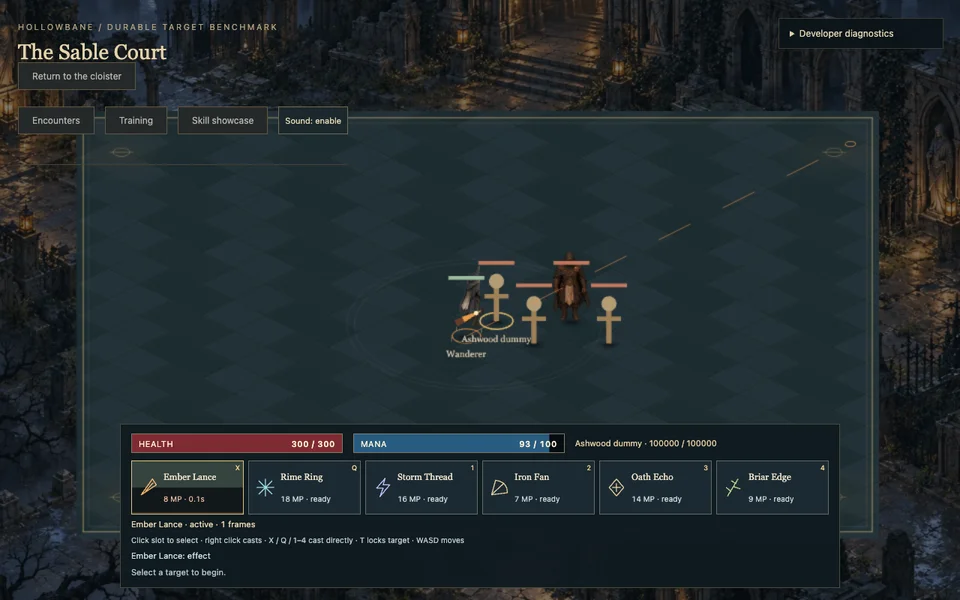
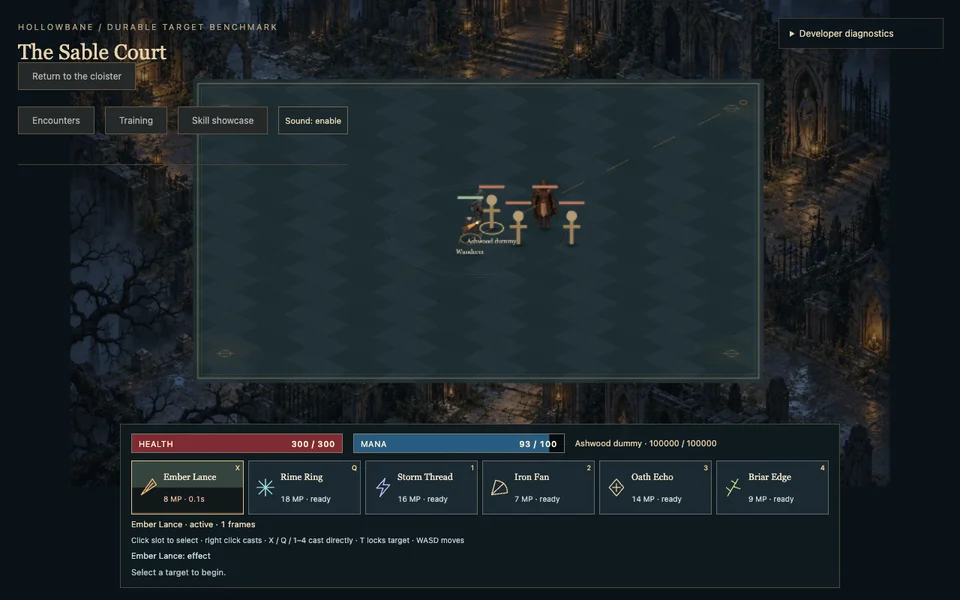
fix(DBL-308): keep playable court clear of the ability HUD

diff --git a/tests/e2e/polish.spec.ts b/tests/e2e/polish.spec.ts
@@ -294,3 +294,38 @@ test("polish world and HUD retain their visual reference", async ({ page }) => {
   });
   await page.screenshot({ path: ".local/polish-review.png" });
 });
+
+test("lower walkable ground remains visible and clickable above HUD after resize", async ({
+  page,
+}) => {
+  await ready(page);
+  const hud = await page.locator(".skill-bar").boundingBox();
+  const p = await point(page, 1250, 790);
+  expect(p.y).toBeLessThan(hud!.y - 16);
+  await page.mouse.click(p.x, p.y);
+  await expect
+    .poll(
+      () =>
+        page.evaluate(() =>
+          Math.abs(window.hollowbaneCombat!.actors[0]!.x - 1250),
+        ),
+      { timeout: 8000 },
+    )
+    .toBeLessThan(3);
+  await expect
+    .poll(() =>
+      page.evaluate(() =>
+        Math.abs(window.hollowbaneCombat!.actors[0]!.y - 790),
+      ),
+    )
+    .toBeLessThan(3);
+  const width = await page.evaluate(() => window.hollowbaneCombat!.view.width);
+  await page.setViewportSize({ width: 1024, height: 768 });
+  await expect
+    .poll(() => page.evaluate(() => window.hollowbaneCombat!.view.width))
+    .not.toBe(width);
+  const q = await point(page, 1250, 790),
+    newHud = await page.locator(".skill-bar").boundingBox();
+  expect(q.y).toBeLessThan(newHud!.y - 16);
+  expect(q.x).toBeLessThan(1024);
+});

diff --git a/src/world/arena-view.test.ts b/src/world/arena-view.test.ts
@@ -1,0 +1,30 @@
+import { expect, it } from "vitest";
+import { arenaView } from "./arena-view";
+it.each([
+  [1280, 800, 566],
+  [1920, 1080, 846],
+  [1024, 768, 528],
+])("walkable ground stays above HUD at %i x %i", (width, height, hud) => {
+  const v = arenaView({ x: width, y: height }, hud);
+  for (const p of [
+    { x: 230, y: 260 },
+    { x: 1300, y: 260 },
+    { x: 230, y: 830 },
+    { x: 1300, y: 830 },
+  ]) {
+    const x = width / 2 + (p.x - v.center.x) * v.scale,
+      y = height / 2 + (p.y - v.center.y) * v.scale;
+    expect(x).toBeGreaterThan(0);
+    expect(x).toBeLessThan(width);
+    expect(y).toBeGreaterThan(60);
+    expect(y + 16).toBeLessThan(hud);
+  }
+});
+it("legacy framing remains identical and invalid inputs are rejected", () => {
+  expect(arenaView({ x: 1280, y: 800 }, null)).toEqual({
+    scale: 1,
+    center: { x: 768, y: 512 },
+    playBottom: 800,
+  });
+  expect(() => arenaView({ x: 0, y: 800 }, 500)).toThrow();
+});

diff --git a/src/rendering/combat-arena.ts b/src/rendering/combat-arena.ts
@@ -1,3 +1,4 @@
+import { arenaView } from "../world/arena-view";
 import { createPolishGround } from "./polish-ground";
 import { CombatAudio } from "./combat-audio";
 import { PolishHUD } from "./polish-hud";
@@ -220,10 +221,14 @@ export function startCombatArena(monsters = false): Phaser.Game {
         this.balancedDetail,
       );
       this.scale.resize(size.x, size.y);
-      this.cameras.main.setZoom(
-        Math.min(innerWidth / 1280, innerHeight / 800) * size.ratio,
+      const framing = arenaView(
+        { x: innerWidth, y: innerHeight },
+        polish
+          ? root.querySelector(".skill-bar")!.getBoundingClientRect().top
+          : null,
       );
-      this.cameras.main.centerOn(768, 512);
+      this.cameras.main.setZoom(framing.scale * size.ratio);
+      this.cameras.main.centerOn(framing.center.x, framing.center.y);
     };
     private renderAt = 0;
     private inputAt: number | null = null;

diff --git a/src/world/arena-view.ts b/src/world/arena-view.ts
@@ -1,0 +1,22 @@
+import type { Point } from "./isometric";
+/** Presentation-only camera framing, preserving a full-canvas inverse projection. */
+export function arenaView(
+  viewport: Point,
+  hudTop: number | null,
+): { scale: number; center: Point; playBottom: number } {
+  if (
+    ![viewport.x, viewport.y].every((v) => Number.isFinite(v) && v > 0) ||
+    (hudTop !== null && !Number.isFinite(hudTop))
+  )
+    throw Error("Invalid arena viewport");
+  const playBottom =
+    hudTop === null
+      ? viewport.y
+      : Math.max(120, Math.min(viewport.y, hudTop - 16));
+  const scale = Math.min(viewport.x / 1280, playBottom / 800);
+  return {
+    scale,
+    center: { x: 768, y: 512 + (viewport.y - playBottom) / (2 * scale) },
+    playBottom,
+  };
+}

diff --git a/docs/polish/milestone.md b/docs/polish/milestone.md
@@ -47,3 +47,9 @@ Six intentional actual-simulation review frames, including Ember in flight, are 
 Benchmark compares three interleaved repeats of pre-299 HUD containment versus full polish (5/10/20/30 enemies), same 1920x1080 balanced setting, durable targets, immortal player, muted audio, live AI, virtual fire pulses. Full polish keeps developer diagnostics open for comparison. Six-second windows after two-second warmup; CPU and RAF callback pacing separate, no native GPU/display scanout claim. Additional two-repeat cosmetic sweeps at 30 enemies isolate skill FX, baked floor detail and backdrop, without changing simulation. Separate two-repeat cloister full/balanced mist A/B uses optional `noMist=1`; normal visuals unchanged. Scripts preserve partial data; no performance gain is assumed before results.
 
 Full check remains 172 tests. Normal cloister visual passes after the measurement-only mist flag; core/full polish regression remains the verified 67 Chromium and 28 Firefox-WebKit milestone.
+
+## DBL-308 readability correction
+
+Review found that the larger fixed HUD covered lower walkable ground. A pure arena-view helper now frames only the polish camera above the actual HUD top, preserving a full-canvas viewport/inverse pointer mapping. Legacy framing is identical. Four viewport tests cover all ground corners and legacy behavior; full check 176. All nine polish browser scenarios pass, including clicking/moving to ground (1250,790) and resizing to 1024x768 while keeping the foot point clear of the HUD. New Sable reference/captures refreshed for this intentional composition change; no prior reference/tolerance changed.
+
+Pre-camera b8f973d repeated measurements are retained separately. Final runtime profiling is repeated after this correction, since the new safe camera framing changes rendered composition. DBL-307 handles hosted publication; DBL-309 is final review evidence, after both 307 and 308. Original broader camera/performance parents remain partial.

diff --git a/docs/polish/showcase/README.md b/docs/polish/showcase/README.md
@@ -2,7 +2,7 @@
 
 Live actual-simulation showcase: https://tobisen.github.io/hollowbane/?polish=1&showcase=1 . Real costs, cooldowns and cast/recovery frames; durable training targets and idle AI are explicit developer fixtures. Click Sound to enable synthesized effects.
 
-These are intentional review captures from the original project scene, generated by scripts/polish-showcase.mjs. Ember is frozen at release/in-flight, other captures four ticks after their effect event; HUD is allowed to reflect the frozen phase. No visual state was injected. Rendered at 1280x800, downscaled to 960x600 WebP for documentation. Atlas provenance remains ASSET_MANIFEST.md; these are not new third-party art.
+These are intentional review captures from the original project scene, generated by scripts/polish-showcase.mjs. Ember is frozen at release/in-flight, other captures at least four ticks after their effect event; HUD is allowed to reflect the frozen phase. No visual state was injected. Rendered at 1280x800, downscaled to 960x600 WebP for documentation. Atlas provenance remains ASSET_MANIFEST.md; these are not new third-party art.
 
 ## ember-lance
 
@@ -12,7 +12,7 @@ Tick 40; effect tick 40; active.
 
 ## rime-ring
 
-Tick 226; effect tick 222; recovery.
+Tick 229; effect tick 222; recovery.
 
 ![rime-ring](rime-ring.webp)
 
@@ -24,7 +24,7 @@ Tick 406; effect tick 402; recovery.
 
 ## iron-fan
 
-Tick 586; effect tick 582; recovery.
+Tick 587; effect tick 582; recovery.
 
 ![iron-fan](iron-fan.webp)
 

diff --git a/README.md b/README.md
@@ -28,7 +28,7 @@ Start at [STATUS.md](STATUS.md). See [ROADMAP.md](ROADMAP.md), [BACKLOG.md](BACK
 
 ## GitHub and deployment
 
-Origin: tobisen/hollowbane. Main is the release branch; focused substantial work uses feature/DBL-xxx or fix/DBL-xxx. Verified small foundation checkpoints may use current branch. `npm run github:import` prints a dry-run. Set GITHUB_TOKEN (issues write) and run `npm run github:import -- --apply` to reconcile 36 milestones, labels and 307 issues (231 source requirements plus scoped increments) by stable title IDs. Never commit tokens. Workflow deploys only after checks pass on main or manual dispatch; repository Pages source must be GitHub Actions. Live verification is separately required; a workflow file alone is not proof of deployment.
+Origin: tobisen/hollowbane. Main is the release branch; focused substantial work uses feature/DBL-xxx or fix/DBL-xxx. Verified small foundation checkpoints may use current branch. `npm run github:import` prints a dry-run. Set GITHUB_TOKEN (issues write) and run `npm run github:import -- --apply` to reconcile 36 milestones, labels and 309 issues (231 source requirements plus scoped increments) by stable title IDs. Never commit tokens. Workflow deploys only after checks pass on main or manual dispatch; repository Pages source must be GitHub Actions. Live verification is separately required; a workflow file alone is not proof of deployment.
 
 ## Skill laboratory
 

diff --git a/AGENTS.md b/AGENTS.md
@@ -28,4 +28,4 @@ G4 approval / Skills authorization (2026-10-17): user approves Monster AI and au
 
 Skills quality checkpoint (2026-10-17): DBL-291 through 298 technically delivered. Runtime 5e09b03 passed CI/Pages 39035255672, 161 unit/59 Chromium, 14 Firefox-WebKit skill cases and 33 hosted controller/skill cases. Stop at Skills & Spell Systems review; user approval remains false. DBL-299 software HUD performance, physical DBL-282 through 286 and broader partial parents remain open. No next-phase systems without approval. Evidence: docs/skills/phase.md and performance.json.
 
-Skills approval / Polish authorization (2026-10-17): user technically approved Skills DBL-291 through 298. Intermediate Gameplay and Visual Polish is authorized: complete DBL-299, then scoped DBL-300 through 307 sequentially. Preserve mechanics/controls and original roadmap/IDs; broader parents remain partial. Stop at polish quality gate. No loot, inventory, crafting, classes or campaign.
+Skills approval / Polish authorization (2026-10-17): user technically approved Skills DBL-291 through 298. Intermediate Gameplay and Visual Polish is authorized: complete DBL-299, then scoped DBL-300 through 309 sequentially. Preserve mechanics/controls and original roadmap/IDs; broader parents remain partial. Stop at polish quality gate. No loot, inventory, crafting, classes or campaign.

diff --git a/STATUS.md b/STATUS.md
@@ -1,4 +1,4 @@
-- Skills quality technically approved by user. Gameplay & Visual Polish authorized through its review gate; start DBL-299, then DBL-300 through 307 sequentially. Existing gameplay and all open hardware/asset/performance follow-ups preserved.
+- Skills quality technically approved by user. Gameplay & Visual Polish authorized through its review gate; start DBL-299, then DBL-300 through 309 sequentially. Existing gameplay and all open hardware/asset/performance follow-ups preserved.
 
 # Status
 
@@ -31,3 +31,5 @@
 - DBL-305 complete: full check 172, Chromium 67/67, combined skill/polish Firefox-WebKit 28/28. Existing golden baselines preserved, new polish reference and six actual-simulation captures reviewed. DBL-306 repeated performance next.
 
 - DBL-306 checkpoint: repeated benchmark scripts ready; optional noMist flag only for rendering A/B. Full check 172 and unchanged normal cloister visual pass. Final measured runtime checkpoint follows.
+
+- DBL-308 complete: HUD-safe camera/inverse projection; full check 176, nine polish scenarios pass including edge movement/resize. Final captures/reference updated. Resume DBL-306 profiling; DBL-307 publication and 309 final review follow.

diff --git a/BACKLOG.md b/BACKLOG.md
@@ -291,3 +291,5 @@ DBL-299 remains open for the measured skill-HUD software rendering threshold; it
 Skills technically approved. DBL-299 HUD performance, then scoped DBL-300 motion, 301 skill effects, 302 HUD readability, 303 audio, 304 contact/lighting consistency, 305 repeated performance/regression/gate. These refine existing DBL-260/042/050/057/063/074 slices, not duplicate full requirements. Preserve the original 36 phases and IDs; no gameplay expansion. Stop for polish review.
 
 Polish quality work split: DBL-305 regression/showcase, DBL-306 repeated performance, DBL-307 publication/review. No duplicate broad requirements are completed by these slices.
+
+Readability follow-up DBL-308 fits playable ground above the larger HUD, preserving pointer projection/legacy views. DBL-309 is final review evidence after publication (307) and this correction; no original IDs renumbered.
